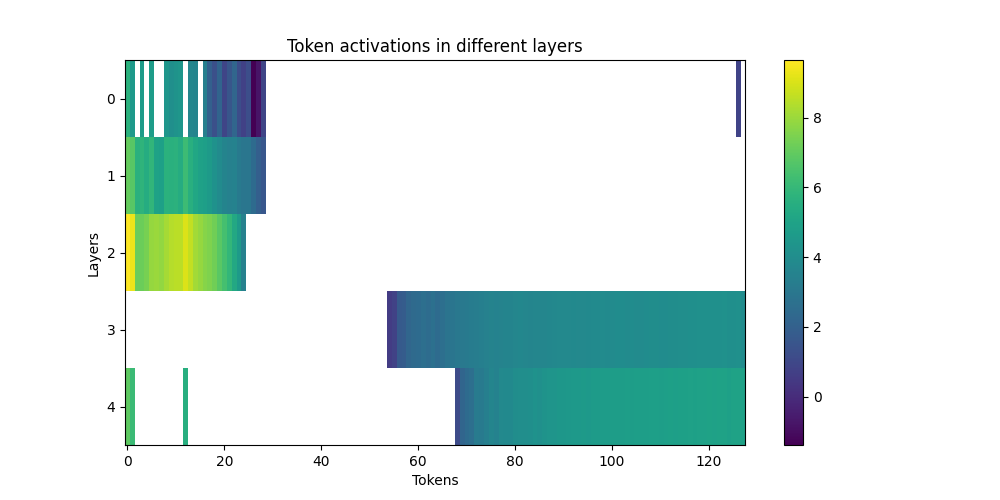
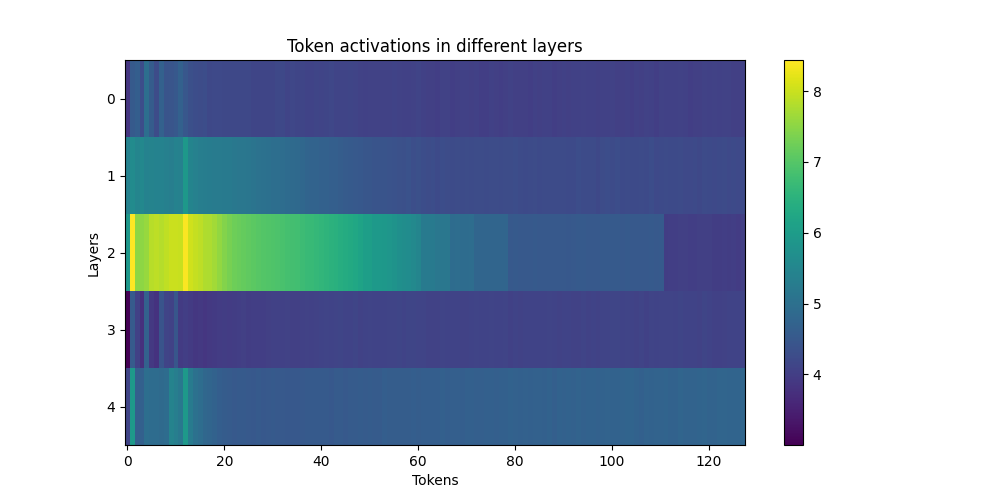
gradient-activation norm

diff --git a/main.py b/main.py
@@ -73,39 +73,84 @@ class normed:
 
     def __init__(self, actemb):
         self.actemb = actemb
-
-        # Additional norm calculations for nested structures
-        # assert np.array(self.actemb["layer 0"]).shape[1] == 128
-        self.actemb["layer 0"] = np.linalg.norm(self.actemb["layer 0"], axis=0)
-        self.actemb["layer 1"] = np.linalg.norm(self.actemb["layer 1"], axis=0)
-        self.actemb["layer 2"] = np.linalg.norm(self.actemb["layer 2"], axis=0)
-        self.actemb["layer 3"] = np.linalg.norm(self.actemb["layer 3"], axis=0)
-        self.actemb["layer 4"] = np.linalg.norm(self.actemb["layer 4"], axis=0)
-        # self.actemb["last layer"] = np.linalg.norm(self.actemb["last layer"], axis=0)
         
+        
+
+
         
     def norm(self):
         
+        # Additional norm calculations for nested structures
+        # assert np.array(self.actemb["layer 0"]).shape[1] == 128
+        norm_actemb = {
+            "layer 0": [],
+            "layer 1": [],
+            "layer 2": [],
+            "layer 3": [],
+            "layer 4": []
+        }
+        
+        
+        norm_actemb["layer 0"] = np.linalg.norm(self.actemb["layer 0"], axis=0)
+        norm_actemb["layer 1"] = np.linalg.norm(self.actemb["layer 1"], axis=0)
+        norm_actemb["layer 2"] = np.linalg.norm(self.actemb["layer 2"], axis=0)
+        norm_actemb["layer 3"] = np.linalg.norm(self.actemb["layer 3"], axis=0)
+        norm_actemb["layer 4"] = np.linalg.norm(self.actemb["layer 4"], axis=0)
+        # self.actemb["last layer"] = np.linalg.norm(self.actemb["last layer"], axis=0)
+        print(np.array(self.actemb["layer 0"]).shape)
+        
         actlist = np.array([
-            np.log(np.array(self.actemb["layer 0"])),
-            np.log(np.array(self.actemb["layer 1"])),
-            np.log(np.array(self.actemb["layer 2"])),
-            np.log(np.array(self.actemb["layer 3"])),
-            np.log(np.array(self.actemb["layer 4"])),
+            np.log(np.array(norm_actemb["layer 0"])),
+            np.log(np.array(norm_actemb["layer 1"])),
+            np.log(np.array(norm_actemb["layer 2"])),
+            np.log(np.array(norm_actemb["layer 3"])),
+            np.log(np.array(norm_actemb["layer 4"])),
             # mean_acts["last layer"]
             ])
-        
+        print(actlist.shape)
         plotting(data=actlist, name = "figures/layer_seq_norm.png")
+
 
     def normwmean(self):
         
-        epsilon = 1e-5
+        # Additional norm calculations for nested structures
+        # assert np.array(self.actemb["layer 0"]).shape[1] == 128
+        normwmean_actemb = {
+            "layer 0": [],
+            "layer 1": [],
+            "layer 2": [],
+            "layer 3": [],
+            "layer 4": []
+        }
+        
+        normwmean_actemb_mod = {
+            "layer 0": [],
+            "layer 1": [],
+            "layer 2": [],
+            "layer 3": [],
+            "layer 4": []
+        }
+        
+        normwmean_actemb["layer 0"] = np.array(self.actemb["layer 0"]) - np.mean(np.array(self.actemb["layer 0"]), axis = 0)
+        normwmean_actemb["layer 1"] = np.array(self.actemb["layer 1"]) - np.mean(np.array(self.actemb["layer 1"]), axis = 0)
+        normwmean_actemb["layer 2"] = np.array(self.actemb["layer 2"]) - np.mean(np.array(self.actemb["layer 2"]), axis = 0)
+        normwmean_actemb["layer 3"] = np.array(self.actemb["layer 3"]) - np.mean(np.array(self.actemb["layer 3"]), axis = 0)
+        normwmean_actemb["layer 4"] = np.array(self.actemb["layer 4"]) - np.mean(np.array(self.actemb["layer 4"]), axis = 0)
+        
+        normwmean_actemb_mod["layer 0"] = np.linalg.norm(normwmean_actemb["layer 0"], axis=0)
+        normwmean_actemb_mod["layer 1"] = np.linalg.norm(normwmean_actemb["layer 1"], axis=0)
+        normwmean_actemb_mod["layer 2"] = np.linalg.norm(normwmean_actemb["layer 2"], axis=0)
+        normwmean_actemb_mod["layer 3"] = np.linalg.norm(normwmean_actemb["layer 3"], axis=0)
+        normwmean_actemb_mod["layer 4"] = np.linalg.norm(normwmean_actemb["layer 4"], axis=0)
+        # self.actemb["last layer"] = np.linalg.norm(self.actemb["last layer"], axis=0)
+        
+        
         actlistmean = np.array([
-            np.log(np.array(self.actemb["layer 0"]) - np.mean(np.array(self.actemb["layer 0"]), axis = 0) + epsilon), 
-            np.log(np.array(self.actemb["layer 1"]) - np.mean(np.array(self.actemb["layer 1"]), axis = 0) + epsilon),
-            np.log(np.array(self.actemb["layer 2"]) - np.mean(np.array(self.actemb["layer 2"]), axis = 0) + epsilon),
-            np.log(np.array(self.actemb["layer 3"]) - np.mean(np.array(self.actemb["layer 3"]), axis = 0) + epsilon),
-            np.log(np.array(self.actemb["layer 4"]) - np.mean(np.array(self.actemb["layer 4"]), axis = 0) + epsilon),
+            np.log(np.array(normwmean_actemb_mod["layer 0"])),
+            np.log(np.array(normwmean_actemb_mod["layer 1"])),
+            np.log(np.array(normwmean_actemb_mod["layer 2"])),
+            np.log(np.array(normwmean_actemb_mod["layer 3"])),
+            np.log(np.array(normwmean_actemb_mod["layer 4"])),
             # mean_acts["last layer"]
             ])
 
@@ -125,15 +170,7 @@ class gradients_norm:
             self.grads = grads  
         except:
             self.grads = self.get_grads()
-    
-        assert np.array(self.grads["layer 0"]).shape[1] == 128
-        self.grads["layer 0"] = np.linalg.norm(self.grads["layer 0"], axis=0)
-        self.grads["layer 1"] = np.linalg.norm(self.grads["layer 1"], axis=0)
-        self.grads["layer 2"] = np.linalg.norm(self.grads["layer 2"], axis=0)
-        self.grads["layer 3"] = np.linalg.norm(self.grads["layer 3"], axis=0)
-        self.grads["layer 4"] = np.linalg.norm(self.grads["layer 4"], axis=0)
-        # self.grads["last layer"] = np.linalg.norm(self.grads["last layer"], axis=0)
-        assert np.array(self.grads["layer 0"]).shape == np.array(self.grads["layer 1"]).shape == np.array(self.grads["layer 2"]).shape == np.array(self.grads["layer 3"]).shape == np.array(self.grads["layer 4"]).shape == (128,)
+            
     
     
     def get_grads(self):
@@ -151,21 +188,20 @@ class gradients_norm:
             
             with self.model.trace(batch["input_ids"]) as tracer:
             
-                output0 = self.model.gpt_neox.layers[0].mlp.output.grad[0].save()
-                output1 = self.model.gpt_neox.layers[1].mlp.output.grad[0].save()
-                output2 = self.model.gpt_neox.layers[2].mlp.output.grad[0].save()
-                output3 = self.model.gpt_neox.layers[3].mlp.output.grad[0].save()
-                output4 = self.model.gpt_neox.layers[4].mlp.output.grad[0].save()
+                output0 = self.model.gpt_neox.layers[0].mlp.output.grad.save()
+                output1 = self.model.gpt_neox.layers[1].mlp.output.grad.save()
+                output2 = self.model.gpt_neox.layers[2].mlp.output.grad.save()
+                output3 = self.model.gpt_neox.layers[3].mlp.output.grad.save()
+                output4 = self.model.gpt_neox.layers[4].mlp.output.grad.save()
                 
                 self.model.output.logits.sum().backward()
             
             # firstly taking the norm for the batch of 2 and then for the dimension of every token
-            assert output0.shape == output1.shape == output2.shape == output3.shape == output4.shape == (128, 512)
-            grad_embeds["layer 0"].append(t.norm(output0, dim = -1))
-            grad_embeds["layer 1"].append(t.norm(output1, dim = -1))
-            grad_embeds["layer 2"].append(t.norm(output2, dim = -1))
-            grad_embeds["layer 3"].append(t.norm(output3, dim = -1))
-            grad_embeds["layer 4"].append(t.norm(output4, dim = -1))
+            grad_embeds["layer 0"].append(t.norm(t.norm(output0, dim = 0), dim = -1))
+            grad_embeds["layer 1"].append(t.norm(t.norm(output1, dim = 0), dim = -1))
+            grad_embeds["layer 2"].append(t.norm(t.norm(output2, dim = 0), dim = -1))
+            grad_embeds["layer 3"].append(t.norm(t.norm(output3, dim = 0), dim = -1))
+            grad_embeds["layer 4"].append(t.norm(t.norm(output4, dim = 0), dim = -1))
             
         with open("data/grads.pkl", "wb") as f:
             pickle.dump(grad_embeds, f)
@@ -175,16 +211,47 @@ class gradients_norm:
     def norm(self):
         
         # Additional norm calculations for nested structures
-    
-        data_norm = np.array([
-            np.log(self.grads["layer 0"]),
-            np.log(self.grads["layer 1"]),
-            np.log(self.grads["layer 2"]),
-            np.log(self.grads["layer 3"]),
-            np.log(self.grads["layer 4"]),
+        # assert np.array(self.actemb["layer 0"]).shape[1] == 128
+        normwmean_grad = {
+            "layer 0": [],
+            "layer 1": [],
+            "layer 2": [],
+            "layer 3": [],
+            "layer 4": []
+        }
+        
+        normwmean_grad_mod = {
+            "layer 0": [],
+            "layer 1": [],
+            "layer 2": [],
+            "layer 3": [],
+            "layer 4": []
+        }
+        
+        normwmean_grad["layer 0"] = np.array(self.actemb["layer 0"]) - np.mean(np.array(self.actemb["layer 0"]), axis = 0)
+        normwmean_grad["layer 1"] = np.array(self.actemb["layer 1"]) - np.mean(np.array(self.actemb["layer 1"]), axis = 0)
+        normwmean_grad["layer 2"] = np.array(self.actemb["layer 2"]) - np.mean(np.array(self.actemb["layer 2"]), axis = 0)
+        normwmean_grad["layer 3"] = np.array(self.actemb["layer 3"]) - np.mean(np.array(self.actemb["layer 3"]), axis = 0)
+        normwmean_grad["layer 4"] = np.array(self.actemb["layer 4"]) - np.mean(np.array(self.actemb["layer 4"]), axis = 0)
+        
+        normwmean_grad_mod["layer 0"] = np.linalg.norm(normwmean_grad["layer 0"], axis=0)
+        normwmean_grad_mod["layer 1"] = np.linalg.norm(normwmean_grad["layer 1"], axis=0)
+        normwmean_grad_mod["layer 2"] = np.linalg.norm(normwmean_grad["layer 2"], axis=0)
+        normwmean_grad_mod["layer 3"] = np.linalg.norm(normwmean_grad["layer 3"], axis=0)
+        normwmean_grad_mod["layer 4"] = np.linalg.norm(normwmean_grad["layer 4"], axis=0)
+        # self.actemb["last layer"] = np.linalg.norm(self.actemb["last layer"], axis=0)
+        
+        
+        gradlistmean = np.array([
+            np.log(np.array(normwmean_grad_mod["layer 0"])),
+            np.log(np.array(normwmean_grad_mod["layer 1"])),
+            np.log(np.array(normwmean_grad_mod["layer 2"])),
+            np.log(np.array(normwmean_grad_mod["layer 3"])),
+            np.log(np.array(normwmean_grad_mod["layer 4"])),
+            # mean_acts["last layer"]
             ])
         
-        plotting(data=data_norm, name = "figures/grads_layer_seq_norm.png")
+        plotting(data=gradlistmean, name = "figures/grads_layer_seq_norm.png")
     
     def normwmean(self):
         
